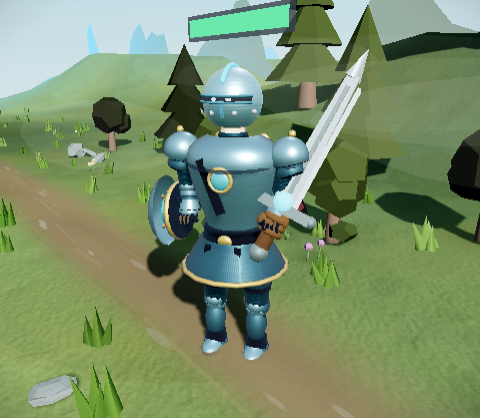
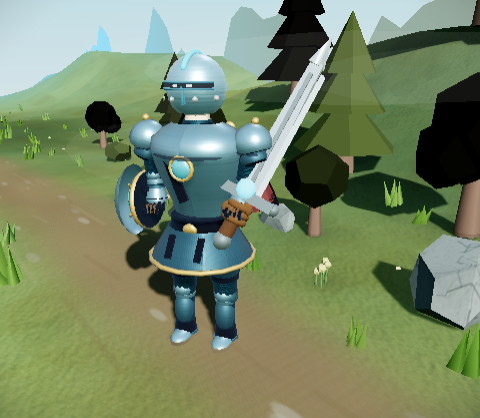
영웅 몸통 측면 S자 프로파일 + 죽어 있던 태싯 스트랩 살리기
비평가 잔여 지적 ⓔ(측면이 균일 깊이 달걀)와 부수 발견 ⑨(태싯 스트랩 매몰) 처리.

- 흉갑 라테는 정의상 회전체라 반지름·scale.z 를 아무리 다듬어도 측면 중심선이 수직 직선이다.
  높이별 z 오프셋(가슴 앞·허리 뒤) + 깊이 배수 분리로 실루엣 중심선 자체를 휘게 했다.
  실측(probe-torso-profile.js side 신설): 중심선 이동폭 8px(±노이즈) → 13.5px(허리 239.5 최소,
  가슴 253 최대로 단조), 허리÷가슴 깊이 0.561 → 0.453.
- 문장·가슴 스트랩 z 상수를 곡면 역산으로 교체 — 가슴이 나온 만큼 따라 나오지 않으면 매몰된다.
- 태싯 스트랩은 z 0.196 인데 같은 높이 스커트 표면이 0.220 이라 화면에 한 번도 안 보였다.
  스커트 원뿔면을 상수에서 역산해 얹고 기울기도 0.12rad → 33.3° 로 경사에 맞췄다.
  검산: 스트랩 전 구간 돌출 +0.0084~0.0089, 재촬영에서 실제로 보인다.

probe-torso-profile.js 에 측면(깊이) 모드와 중심선 지표 추가.
검증: node --check 통과, 31/31 화면 콘솔 에러 0건, 영웅 정면·측면·걷기 재촬영.

diff --git a/web/js/prochar.js b/web/js/prochar.js
@@ -487,8 +487,10 @@ const ProChar = {
         skirtMat.side = THREE.DoubleSide;
         // 상단 0.205→0.19 / 밑단 0.295→0.30 — 흉갑 밑단을 0.163으로 조인 것에 맞춰 스커트 상단도
         // 함께 좁힌다. 안 좁히면 스커트 림이 잘록해진 허리보다 밖으로 튀어나와 허리 꺾임을 덮어버린다.
-        const skirt = new THREE.Mesh(new THREE.CylinderGeometry(0.19, 0.30, 0.18, 14, 1, true), skirtMat); // 밑단 플레어 — 허리→밑단 벌어지는 실루엣 꺾임
-        skirt.position.y = -0.045;
+        // 상수로 뽑아 둔다 — 아래 태싯 스트랩이 스커트 원뿔면 위에 정확히 얹히도록 여기서 역산한다
+        const SK_TOP = 0.19, SK_BOT = 0.30, SK_H = 0.18, SK_Y = -0.045;
+        const skirt = new THREE.Mesh(new THREE.CylinderGeometry(SK_TOP, SK_BOT, SK_H, 14, 1, true), skirtMat); // 밑단 플레어 — 허리→밑단 벌어지는 실루엣 꺾임
+        skirt.position.y = SK_Y;
         const hem = new THREE.Mesh(new THREE.TorusGeometry(0.30, 0.014, 6, 16), gold);
         hem.rotation.x = Math.PI / 2;
         hem.position.y = -0.135;
@@ -507,10 +509,20 @@ const ProChar = {
         buckle.position.set(0, 0.05, 0.158); // 벨트 z 반경이 0.183×0.85≒0.156이므로 그 위에 얹힘 (벨트 축소 반영)
         buckle.scale.set(1.1, 0.9, 0.45);
         // 벨트에 매달리는 세로 스트랩 2줄 — 골반 앞면에 어두운 세로 분할선을 넣어 판금 덩어리를 끊는다
+        // ⚠ 이 스트랩은 **화면에 한 번도 보인 적이 없는 죽은 지오메트리였다**(앞 세션 부수 발견 ⑨, 미수정).
+        //    z 0.196 에 평평하게 세워 뒀는데 같은 높이의 스커트 표면이 0.236 이라 완전히 매몰됐다.
+        //    원인은 상수를 눈대중으로 박은 것 — 스커트는 **밑단으로 벌어지는 원뿔**이라 표면 z 가 높이마다
+        //    다르고(스트랩 상단 0.177 → 하단 0.262), 기울기 0.12rad 로는 그 33° 경사를 따라갈 수 없다.
+        //    → 스커트 상수에서 원뿔면을 역산해 얹는다. 이제 스커트 치수를 바꿔도 스트랩이 따라간다.
+        const skirtR = y => SK_TOP + (SK_BOT - SK_TOP) * ((SK_Y + SK_H / 2 - y) / SK_H); // pelvis y → 스커트 반지름
+        const STRAP_X = 0.085, STRAP_HALF = 0.065, STRAP_Y = -0.03;
+        const strapZAt = y => Math.sqrt(Math.max(1e-6, skirtR(y) * skirtR(y) - STRAP_X * STRAP_X)); // 원형 단면에서 x 만큼 옆으로 간 지점의 z
+        const zTop = strapZAt(STRAP_Y + STRAP_HALF), zBot = strapZAt(STRAP_Y - STRAP_HALF);
         for (const sx of [-1, 1]) {
-            const tassetStrap = new THREE.Mesh(new THREE.BoxGeometry(0.036, 0.13, 0.012), deepHide);
-            tassetStrap.position.set(sx * 0.085, -0.03, 0.196);
-            tassetStrap.rotation.x = -0.12;
+            const tassetStrap = new THREE.Mesh(new THREE.BoxGeometry(0.036, STRAP_HALF * 2, 0.012), deepHide);
+            // +0.009 = 스트랩 두께 절반(0.006) + 여유 — 곡면 위에 확실히 얹혀 z-fighting 없이 보이게
+            tassetStrap.position.set(sx * STRAP_X, STRAP_Y, (zTop + zBot) / 2 + 0.009);
+            tassetStrap.rotation.x = Math.atan2(zTop - zBot, STRAP_HALF * 2); // 원뿔 경사와 평행 (음수 = 위가 뒤로)
             pelvis.add(tassetStrap);
         }
         pelvis.add(skirt, skirtLine, hem, belt, buckle);
@@ -619,8 +631,67 @@ const ProChar = {
             [0.132, 0.465],
         ];
         for (const [r, y] of prof) cuirassPts.push(new THREE.Vector2(r, y));
-        const cuirass = new THREE.Mesh(new THREE.LatheGeometry(cuirassPts, 22), steel()); // 세그먼트 18→22 (허리 곡률이 급해 각지던 것)
-        cuirass.scale.set(1.04, 1.08, 0.8); // 역삼각 실루엣 — 가슴 상향+좌우 확장, 앞뒤 눌림 (비평가: 실루엣 꺾임)
+        // ⚠ 측면 S자 프로파일 (비평가 잔여 지적 ⓔ "정면은 해소됐고 측면만 남았다 — 균일 깊이 달걀").
+        //    라테는 **정의상 회전체**라 위 prof 반지름을 아무리 다듬어도, scale.z 를 아무리 눌러도
+        //    옆에서 본 실루엣의 **중심선은 완벽한 수직 직선**이다 — 즉 측면은 언제나 앞뒤 대칭 달걀이다.
+        //    실측(신설 `probe-torso-profile.js side`): 중심선 이동폭 8px 이지만 단조 증감이 아닌 ±노이즈,
+        //    깊이 프로파일도 폭 프로파일의 상수배(허리÷가슴 깊이 0.561 ≒ 폭비 0.64)일 뿐이었다.
+        //    → 고치는 방법은 하나뿐: **높이별 z 오프셋**. 흉곽을 앞으로 내밀고 요추를 뒤로 당겨
+        //    (사람 몸통의 실제 시상면 곡선) 중심선 자체를 휘게 한다. 깊이 배수도 함께 갈라
+        //    가슴은 두껍게·허리는 얇게 눌러 '같은 비율로 축소된 같은 타원'이 되지 않게 한다.
+        // ⚠ 오프셋 상한은 **벨트**가 정한다 — 허리를 뒤로 너무 밀면 흉갑 뒷면이 벨트(z 반경 0.15) 밖으로
+        //    튀어나와 판금이 가죽을 뚫는다. 허리 z 반경 0.163×0.8×0.85=0.111 + 오프셋 0.016 = 0.127 < 0.15.
+        const TORSO_TOP = 0.465;                 // 라테 최상단 y (제어점 t 정규화 기준)
+        const CUIRASS_SZ = 0.8;                  // 아래 scale.z 와 반드시 같은 값 (부착물 z 계산에 재사용)
+        const TZ = [                             // [t, 깊이배수, z오프셋] — 허리(뒤·얇게) → 가슴(앞·두껍게) → 어깨(복귀)
+            [0.00, 0.85, -0.020],
+            [0.26, 0.90, -0.012],
+            [0.50, 0.98, 0.006],
+            [0.74, 1.04, 0.020],                 // 가슴 최대폭 지점 = 최대 전방 돌출
+            [1.00, 0.96, 0.010],
+        ];
+        const torsoZ = t => {
+            t = Math.min(1, Math.max(0, t));
+            for (let i = 1; i < TZ.length; i++) {
+                if (t <= TZ[i][0]) {
+                    const a = TZ[i - 1], b = TZ[i], k = (t - a[0]) / (b[0] - a[0]);
+                    const s = k * k * (3 - 2 * k);   // smoothstep — 제어점에서 각지지 않게
+                    return { d: a[1] + (b[1] - a[1]) * s, o: a[2] + (b[2] - a[2]) * s };
+                }
+            }
+            const l = TZ[TZ.length - 1];
+            return { d: l[1], o: l[2] };
+        };
+        const profR = y => {                     // prof 제어점 사이 반지름 선형 보간 (부착물 접지 계산용)
+            if (y <= prof[0][1]) return prof[0][0];
+            for (let i = 1; i < prof.length; i++) {
+                if (y <= prof[i][1]) {
+                    const a = prof[i - 1], b = prof[i];
+                    return a[0] + (b[0] - a[0]) * (y - a[1]) / (b[1] - a[1]);
+                }
+            }
+            return prof[prof.length - 1][0];
+        };
+        // 흉갑 표면의 앞면 z (spine 로컬) — 문장·스트랩처럼 흉갑에 '붙는' 파츠가 새 곡면을 따라가게 한다.
+        // 이걸 안 하면 가슴을 앞으로 내민 만큼 문장이 판금 **속으로 매몰**된다(tassetStrap 이 정확히 그렇게 죽어 있었다).
+        // x 를 주면 그 지점의 타원 단면 깊이까지 반영한다 — 오프셋 o 는 곡면 전체의 평행이동이라
+        // 타원 보정 **밖**에 있어야 한다(안에 넣으면 중심에서 멀어질수록 S자 오프셋이 사라진다).
+        const torsoSurfZ = (y, x) => {
+            const m = torsoZ(y / TORSO_TOP), r = profR(y);
+            const k = x ? Math.sqrt(Math.max(0, 1 - Math.pow(x / (1.04 * r), 2))) : 1;
+            return (r * m.d * k + m.o) * CUIRASS_SZ;
+        };
+        const cuirassGeo = new THREE.LatheGeometry(cuirassPts, 22); // 세그먼트 18→22 (허리 곡률이 급해 각지던 것)
+        {
+            const p = cuirassGeo.attributes.position;
+            for (let i = 0; i < p.count; i++) {
+                const m = torsoZ(p.getY(i) / TORSO_TOP);
+                p.setZ(i, p.getZ(i) * m.d + m.o);
+            }
+            cuirassGeo.computeVertexNormals();   // 곡면이 바뀌었으므로 필수 — 안 하면 음영이 옛 회전체를 그린다
+        }
+        const cuirass = new THREE.Mesh(cuirassGeo, steel());
+        cuirass.scale.set(1.04, 1.08, CUIRASS_SZ); // 역삼각 실루엣 — 가슴 상향+좌우 확장, 앞뒤 눌림 (비평가: 실루엣 꺾임)
         // 목 링
         const gorget = new THREE.Mesh(new THREE.TorusGeometry(0.1, 0.032, 8, 14), steelDark());
         gorget.rotation.x = Math.PI / 2;
@@ -628,7 +699,8 @@ const ProChar = {
         // 가슴 문장 (등급 발광용)
         R.emblemMat = new THREE.MeshStandardMaterial({ color: 0x78909c, metalness: 0.6, roughness: 0.32 });
         const emblem = new THREE.Mesh(new THREE.SphereGeometry(0.055, 10, 8), R.emblemMat);
-        emblem.position.set(0, 0.3, 0.2);
+        // z 상수(0.2)를 곡면 계산으로 교체 — 가슴이 앞으로 나온 만큼 문장도 따라 나와야 매몰되지 않는다
+        emblem.position.set(0, 0.3, torsoSurfZ(0.3) + 0.002);
         emblem.scale.z = 0.4;
         const emblemRim = new THREE.Mesh(new THREE.TorusGeometry(0.06, 0.012, 6, 14), gold);
         emblemRim.position.copy(emblem.position);
@@ -638,7 +710,9 @@ const ProChar = {
         gorgetIn.position.y = 0.452;
         // 가슴 가로 스트랩 — 흉갑 위를 사선으로 지나는 니어블랙 띠 (밝은 판금 덩어리를 분할)
         const chestStrap = new THREE.Mesh(new THREE.BoxGeometry(0.052, 0.3, 0.014), deepHide);
-        chestStrap.position.set(-0.055, 0.26, 0.196);
+        // x 가 중심에서 벗어난 만큼 그 지점의 곡면 z 는 얕아진다(타원 단면) — 그 보정까지 넣어야
+        // 스트랩이 위쪽에서만 뜨고 아래쪽에서 파묻히는 일이 없다.
+        chestStrap.position.set(-0.055, 0.26, torsoSurfZ(0.26, -0.055) + 0.004);
         chestStrap.rotation.set(-0.14, 0, 0.42);
         // 어깨 요크(클라비클 플레이트) — 흉갑 상단이 한 점으로 수렴해 두상이 몸통에 바로 얹힌
         // '눈사람'으로 읽히던 문제의 나머지 절반. 허리를 조이는 것만으로는 상단이 여전히 뾰족하다.

diff --git a/web/tools/probe-torso-profile.js b/web/tools/probe-torso-profile.js
@@ -7,8 +7,12 @@
 // ⚠ 팔·망토·방패·검은 몸통 폭이 아니다 — 정면 프레임에서 팔이 몸통 옆에 붙어 폭에 섞이므로
 //    측정 전에 arms/cape/shield/weapon 그룹을 숨겨 '몸통 코어'만 남긴다.
 //
-// 사용: node probe-torso-profile.js
+// 사용: node probe-torso-profile.js [side]
+// ⚠ `side` 인자를 주면 카메라를 옆으로 90° 돌려 **깊이(앞뒤) 프로파일**을 잰다. 정면 프로파일이
+//    통과해도 측면이 균일 깊이면 몸통은 여전히 달걀이다(비평가 잔여 지적 ⓔ "측면이 균일 깊이 달걀").
+//    측면 모드에서 'w'로 찍히는 값은 폭이 아니라 **깊이**이고, 허리÷가슴도 깊이 비다.
 const { chromium } = require(process.env.PW_PATH || '/opt/node22/lib/node_modules/playwright');
+const SIDE = process.argv.slice(2).includes('side');
 const INDEX = 'file://' + require('path').resolve(__dirname, '../index.html');
 
 (async () => {
@@ -20,7 +24,7 @@ const INDEX = 'file://' + require('path').resolve(__dirname, '../index.html');
     await page.goto(INDEX + '?debug=gear&w=sword&wage=medieval&rar=rare&hage=medieval&aage=medieval', { waitUntil: 'load' });
     await page.waitForFunction(() => typeof Scene3D !== 'undefined' && Scene3D.heroRig && typeof ProChar !== 'undefined', null, { timeout: 60000 });
 
-    const out = await page.evaluate(() => {
+    const out = await page.evaluate((SIDE) => {
         Combat.tick = () => {};
         if (typeof Skills !== 'undefined' && Skills.tick) Skills.tick = () => {};
         Scene3D.heroAttack = () => {};
@@ -54,6 +58,9 @@ const INDEX = 'file://' + require('path').resolve(__dirname, '../index.html');
         const size = box.getSize(new THREE.Vector3());
         const fwd = new THREE.Vector3();
         Scene3D.heroG.getWorldDirection(fwd);
+        // 측면 모드: 시선 방향을 y축으로 90° 돌린다(정면 벡터의 수평 수직축) — 같은 거리·같은 높이라
+        // 정면/측면 수치를 그대로 비교할 수 있다.
+        if (SIDE) fwd.set(-fwd.z, fwd.y, fwd.x);
         const dist = Math.max(size.x, size.y, size.z) * 1.25 + 0.3;
         Scene3D.camLock = { pos: c.clone().add(fwd.multiplyScalar(dist)), look: c.clone() }; // 수평 시선 — 원근 왜곡 없이 폭만
         Scene3D.camera.position.copy(Scene3D.camLock.pos);
@@ -126,23 +133,36 @@ const INDEX = 'file://' + require('path').resolve(__dirname, '../index.html');
         for (let r = rowOfFrac(0.86); r <= rowOfFrac(0.97); r++) { const s = span(r); if (!s) continue; shMin = Math.min(shMin, s); shMax = Math.max(shMax, s); shN++; }
         const samples = [];
         for (let i = 0; i <= 16; i++) samples.push(at(i / 16));
+        // 실루엣 중심선 — 측면 모드에서 이게 수직 직선이면 앞뒤 대칭(=회전체 달걀)이다.
+        // 라테는 정의상 회전체라 z 스케일을 높이별로 바꿔도 중심선은 그대로 직선이다. 즉 '측면 달걀'을
+        // 깨는 유일한 방법은 높이별 z 오프셋(가슴 앞으로·허리 뒤로)이고, 그 효과는 이 지표에만 나타난다.
+        const mid = f => { const r = rowOfFrac(f); return lo[r] < 0 ? null : (lo[r] + hi[r]) / 2; };
+        const midS = [];
+        for (let i = 0; i <= 16; i++) { const m = mid(i / 16); midS.push({ f: +(i / 16).toFixed(3), m: m === null ? null : +m.toFixed(1) }); }
+        const mv = midS.map(s => s.m).filter(m => m !== null);
+        const midSpread = mv.length ? +(Math.max(...mv) - Math.min(...mv)).toFixed(1) : null;
         return {
             px: { w, h }, trunk: { yBot, yTop, heightPx: H },
             waist, chest, hip: at(0.06),
             waistOverChest: null, shoulderFlatness: shN ? +((shMax - shMin) / shMax).toFixed(3) : null,
-            samples,
+            samples, midS, midSpread,
         };
-    });
+    }, SIDE);
 
     if (out.error) { console.log('ERROR: ' + out.error); await browser.close(); process.exit(1); }
     out.waistOverChest = +(out.waist.w / out.chest.w).toFixed(3);
+    const L = SIDE ? '깊이' : '폭';
+    console.log('시점 :', SIDE ? '측면(깊이 프로파일)' : '정면(폭 프로파일)');
     console.log('canvas', JSON.stringify(out.px), '몸통 마스크', JSON.stringify(out.trunk));
-    console.log('허리 최소폭 :', out.waist.w + 'px @ 몸통분율 ' + out.waist.f);
-    console.log('가슴 최대폭 :', out.chest.w + 'px @ 몸통분율 ' + out.chest.f, '(가슴이면 ≥0.62, 배면 0.45~0.58)');
+    console.log('허리 최소' + L + ' :', out.waist.w + 'px @ 몸통분율 ' + out.waist.f);
+    console.log('가슴 최대' + L + ' :', out.chest.w + 'px @ 몸통분율 ' + out.chest.f, '(가슴이면 ≥0.62, 배면 0.45~0.58)');
     console.log('허리÷가슴  :', out.waistOverChest, '(목표 ≤0.78 — 잘록한 허리. 1에 가까우면 달걀)');
     console.log('어깨선 비수평도 :', out.shoulderFlatness, '(작을수록 수평 어깨)');
-    console.log('폭 프로파일(몸통분율:폭px)  0=스커트 밑단, 1=고젯');
+    console.log(L + ' 프로파일(몸통분율:' + L + 'px)  0=스커트 밑단, 1=고젯');
     console.log('  ' + out.samples.map(s => s.f + ':' + s.w).join('  '));
+    console.log('중심선 이동폭 :', out.midSpread + 'px', SIDE ? '(측면: 0에 가까우면 앞뒤 대칭 = 회전체 달걀. S자면 6px 이상)' : '(정면: 좌우 대칭이라 0 근처가 정상)');
+    console.log('중심선(몸통분율:중심x px)');
+    console.log('  ' + out.midS.map(s => s.f + ':' + s.m).join('  '));
     console.log(errs.length ? 'ERRORS: ' + errs.join(' | ') : '(no console errors)');
     await browser.close();
 })();
